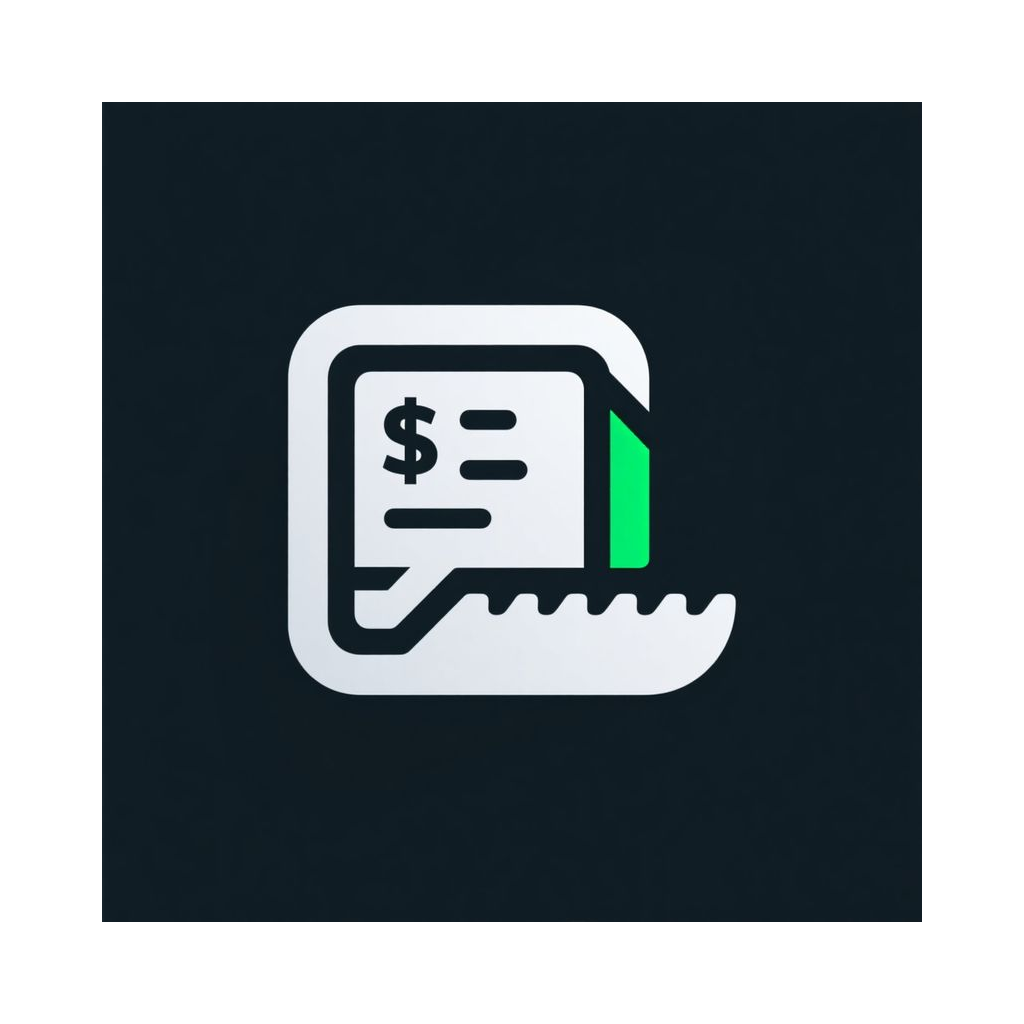
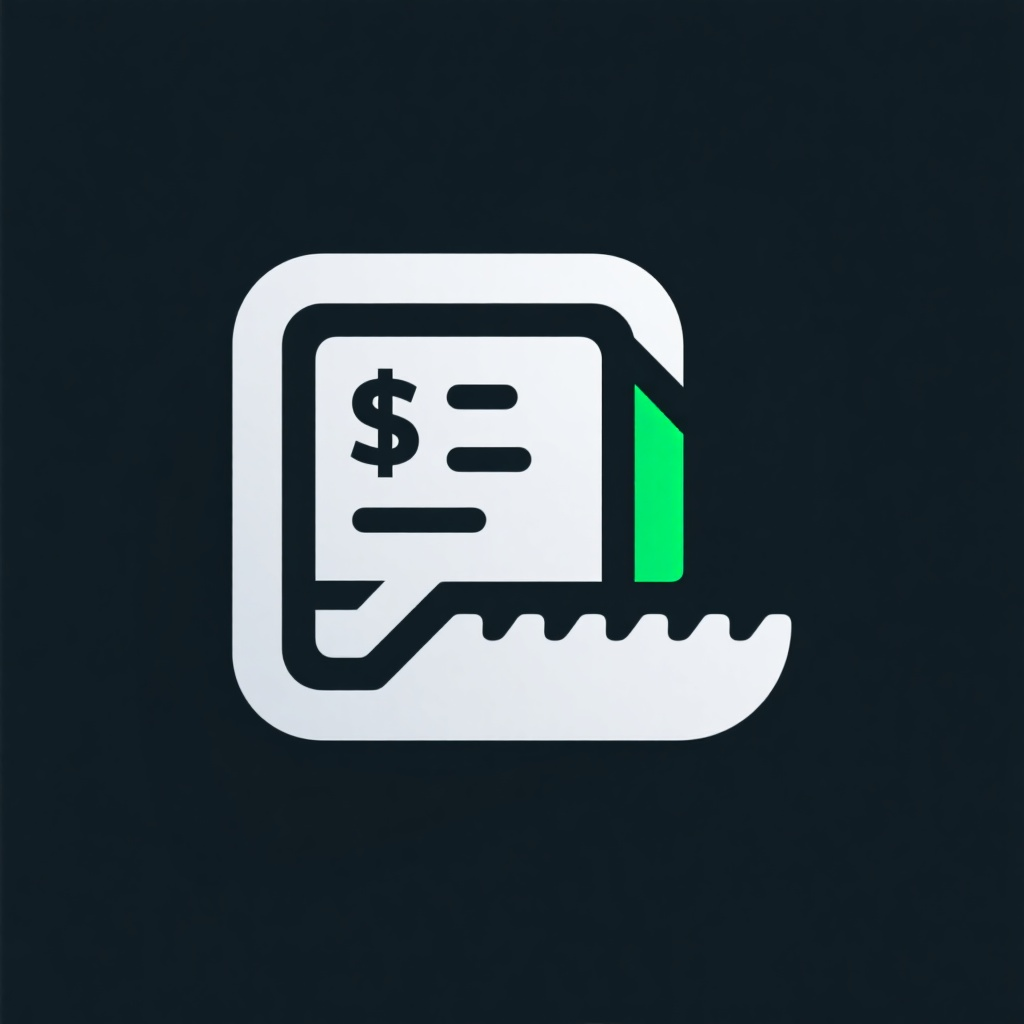
fix(mobile): refresh app branding assets

diff --git a/mobile/scripts/generate-icons.js b/mobile/scripts/generate-icons.js
@@ -6,12 +6,6 @@ const LOGO_PATH = path.join(__dirname, '../../public/logo.png');
 const ASSETS_DIR = path.join(__dirname, '../assets');
 const ICON_SIZE = 1024;
 
-// Brand colors
-const BRAND_COLORS = {
-  primary: '#2563eb',
-  background: '#ffffff',
-};
-
 async function generateIcons() {
   try {
     // Check if logo exists
@@ -65,15 +59,19 @@ async function generateIcons() {
         .toFile(outputPath);
     }
 
-    // 1. Generate iOS/main icon (1024x1024)
-    // iOS safe zone: ~10% padding on all sides (logo in middle 80%)
-    const iosLogoSize = 820; // 1024 - (102 * 2) = 820px
+    // iOS app icons cannot contain transparency. Using the square source art
+    // edge-to-edge also avoids the white frame caused by padding the artwork on
+    // a transparent canvas.
+    async function createFullBleedIcon(outputPath) {
+      return sharp(LOGO_PATH)
+        .resize(ICON_SIZE, ICON_SIZE, { fit: 'cover' })
+        .removeAlpha()
+        .png()
+        .toFile(outputPath);
+    }
 
-    await createIcon(
-      iosLogoSize,
-      path.join(ASSETS_DIR, 'icon.png'),
-      { r: 0, g: 0, b: 0, alpha: 0 } // Transparent
-    );
+    // 1. Generate iOS/main icon (1024x1024)
+    await createFullBleedIcon(path.join(ASSETS_DIR, 'icon.png'));
 
     console.log('✅ Generated icon.png (iOS/main icon)');
 
@@ -90,14 +88,8 @@ async function generateIcons() {
     console.log('✅ Generated adaptive-icon.png (Android adaptive icon foreground)');
 
     // 3. Generate splash screen icon (1024x1024)
-    // Splash icon: Logo centered on white background
-    const splashLogoSize = 614; // ~60% of canvas
-
-    await createIcon(
-      splashLogoSize,
-      path.join(ASSETS_DIR, 'splash-icon.png'),
-      { r: 255, g: 255, b: 255, alpha: 1 } // White
-    );
+    // Keep the splash artwork and native launch-screen background seamless.
+    await createFullBleedIcon(path.join(ASSETS_DIR, 'splash-icon.png'));
 
     console.log('✅ Generated splash-icon.png (splash screen icon)');
 
@@ -112,7 +104,8 @@ async function generateIcons() {
     for (const file of iconFiles) {
       const metadata = await sharp(file.path).metadata();
       const status = metadata.width === ICON_SIZE && metadata.height === ICON_SIZE ? '✅' : '❌';
-      console.log(`${status} ${file.name}: ${metadata.width}x${metadata.height}`);
+      const alpha = metadata.hasAlpha ? 'with alpha' : 'opaque';
+      console.log(`${status} ${file.name}: ${metadata.width}x${metadata.height}, ${alpha}`);
     }
 
     console.log('\n🎉 All icons generated successfully!');

diff --git a/mobile/app.config.js b/mobile/app.config.js
@@ -1,6 +1,6 @@
 module.exports = {
   expo: {
-    name: 'LedgerCraft',
+    name: 'easybizinvoice',
     slug: 'easybizinvoice-mobile',
     version: '1.0.0',
     orientation: 'portrait',
@@ -10,7 +10,7 @@ module.exports = {
     splash: {
       image: './assets/splash-icon.png',
       resizeMode: 'contain',
-      backgroundColor: '#ffffff',
+      backgroundColor: '#1B262C',
     },
     ios: {
       supportsTablet: true,
@@ -23,7 +23,7 @@ module.exports = {
     android: {
       adaptiveIcon: {
         foregroundImage: './assets/adaptive-icon.png',
-        backgroundColor: '#ffffff',
+        backgroundColor: '#1B262C',
       },
       package: 'com.easybizinvoice.app',
       versionCode: 1,

diff --git a/.cursor/skills/ledgercraft-bootstrap/SKILL.md b/.cursor/skills/ledgercraft-bootstrap/SKILL.md
@@ -33,6 +33,7 @@ current architecture.
 | W11 | **Verified (2026-09-11).** Journals CRUD, account writes/initialize, invoice remind mailer. |
 | W12 | **Verified (2026-09-11).** `POST /api/ai/chat`; client OpenAI gone. |
 | W13 | **Verified (2026-09-11).** `@supabase/supabase-js` removed; hosted URL/anon key and Edge Function URLs gone. |
+| Mobile branding | **Implemented locally (2026-10-21).** Installed display name is `easybizinvoice`; the iOS icon is opaque and full bleed, and the splash is seamless dark artwork. Bundle ID, EAS project, Apple team, entitlements, and App Store Connect identity are unchanged. |
 | Mobile onboarding | **Implemented locally (2026-10-21).** Original value carousel, progressive account signup, resumable business setup, profile-existence gating, and explicit GST registration persisted through SQLite migration `0006`. Mobile TypeScript, 21 Jest suites (83 tests), API 29 suites (78 tests), contracts 18 suites (57 tests), lint with no errors, and iOS/Android exports pass; authenticated device QA remains pending. |
 | GST filing | **Deployed (2026-10-03).** Hono/SQLite persists IRD + reconciliation snapshots; a dedicated action records the external myIR confirmation reference; PDF export and authenticated create/save/download/file/reload browser QA pass. Frontend `714caea84c59`, Worker `77d9125d-f89c-44fb-9ec2-1d50ad1c7603`; no migration. |
 | AKP-01 | **Partially implemented and deployed (2026-10-04).** Vendor CRUD and web bill draft/receive/void/payment workflows, exact AP journals, and SQLite migration `0004_purchases-payables.sql` pass the production release gate. Expo vendor/bill browsing, draft create/edit, receive/void and payment-critical flows pass focused tests, iOS/Android exports, and EAS production iOS archive build 2 (`170b1d99-61c0-4616-8ccd-e3a111c10f21`). Submission `1b89f039-ccbc-4af5-8e7f-81874f082f54` was uploaded to App Store Connect for TestFlight; Apple processing, authenticated device QA, attachments and the remaining lifecycle/import/recurring scope are pending. |

diff --git a/TARGET_ARCHITECTURE.md b/TARGET_ARCHITECTURE.md
@@ -1,5 +1,11 @@
 # LedgerCraft target architecture
 
+**Mobile branding (implemented locally, 2026-10-21):** Expo resolves the
+installed display name as `easybizinvoice`. Its iOS icon is an opaque,
+full-bleed 1024 px asset and its splash screen uses seamless dark brand artwork.
+Release identity remains `com.easybizinvoice.app` under the existing EAS project,
+Apple team, Associated Domains entitlement, and App Store Connect app.
+
 **Mobile onboarding core (implemented locally, 2026-10-21):** Expo first launch
 now includes an original LedgerCraft value carousel, progressive account
 signup, and resumable business setup for name, country, and explicit GST

diff --git a/Agents.md b/Agents.md
@@ -1,5 +1,10 @@
 # Agents.md - LLM Guide for LedgerCraft Project
 
+**Mobile branding (implemented locally, 2026-10-21):** The installed Expo app
+uses the display name `easybizinvoice`, an opaque full-bleed iOS icon, and a
+seamless dark splash screen. The existing iOS bundle ID, EAS project, Apple
+team, Associated Domains capability, and App Store Connect app remain unchanged.
+
 **Mobile onboarding core (implemented locally, 2026-10-21):** First launch now
 uses an original LedgerCraft value carousel, progressive account signup, and a
 resumable business setup for name, country, and explicit GST registration.

diff --git a/.cursor/skills/ledgercraft-mobile-release/SKILL.md b/.cursor/skills/ledgercraft-mobile-release/SKILL.md
@@ -15,7 +15,7 @@ specific facts and decisions that should not be rediscovered.
 | --- | --- |
 | Expo owner/project | `@jeevan90/easybizinvoice-mobile` |
 | EAS project ID | `7148323b-502c-447e-96c3-a5c1704c40c9` |
-| App name/version | `EasyBizInvoice` / `1.0.0` until intentionally changed |
+| App name/version | `easybizinvoice` / `1.0.0` |
 | iOS bundle identifier | `com.easybizinvoice.app` |
 | Apple team | `88282K637B` |
 | App Store Connect app ID | `6818787287` |
